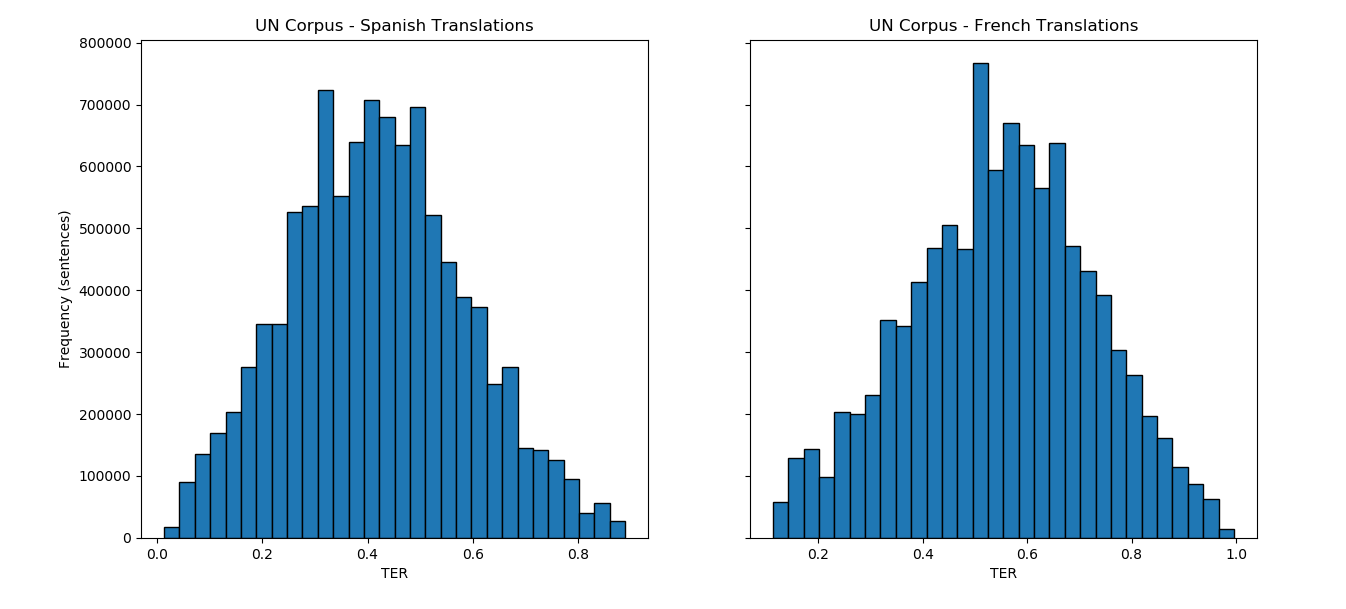
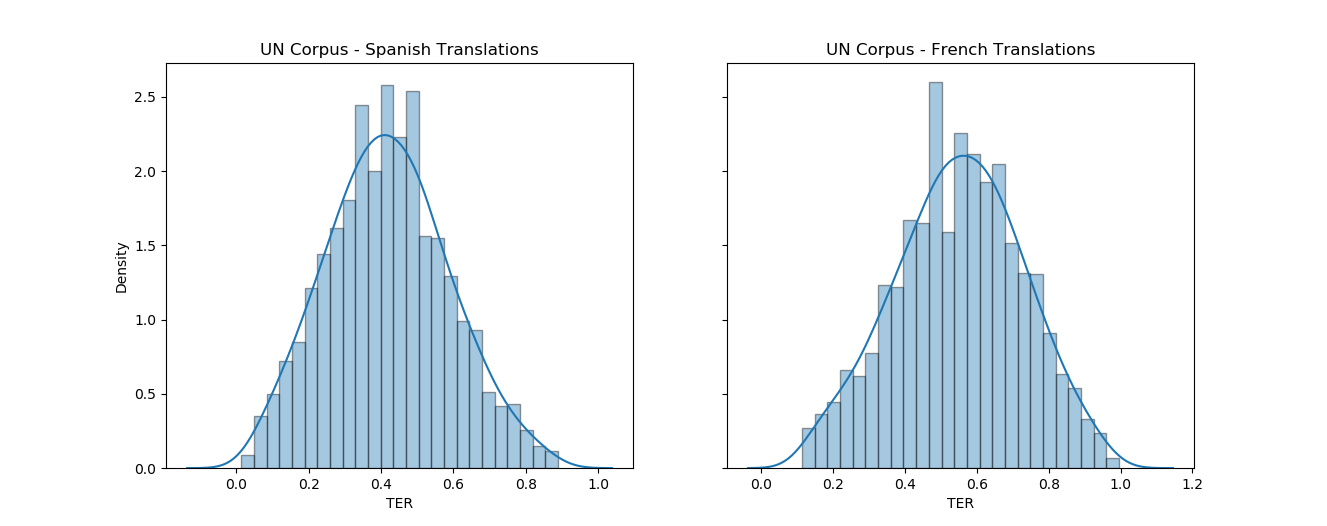
combining histogram and kde plot

diff --git a/scripts/histograms.py b/scripts/histograms.py
@@ -17,34 +17,50 @@ def histogram():
 
     fig, axs = plt.subplots(1, 2, sharey=True)
 
-    axs[0].hist(es_df.iloc[:,0], bins=30, edgecolor='black')
+    axs[0].hist(es_df.iloc[:,0], bins=25, edgecolor='black')
     axs[0].set_xlabel("TER")
     axs[0].set_ylabel("Frequency (sentences)")
     axs[0].set_title("UN Corpus - Spanish Translations")
 
-    axs[1].hist(fr_df.iloc[:,0], bins=30, edgecolor='black')
+    axs[1].hist(fr_df.iloc[:,0], bins=25, edgecolor='black')
     axs[1].set_xlabel("TER")
     #axs[1].ylabel("Frequency (sentences)")
     axs[1].set_title("UN Corpus - French Translations")
 
     plt.show()
-
-histogram()
 
 def KernelDensity():
 
     fig, axs = plt.subplots(1, 2, sharey=True)
 
-    sns.kdeplot(es_df.iloc[:,0], bw=0.1, ax=axs[0], legend=False)
+    sns.kdeplot(es_df.iloc[:,0], bw=0.05, ax=axs[0], legend=False)
     axs[0].set_xlabel("TER")
     axs[0].set_ylabel("Density")
     axs[0].set_title("UN Corpus - Spanish Translations")
 
-    sns.kdeplot(fr_df.iloc[:,0], bw=0.1, ax=axs[1], legend=False)
+    sns.kdeplot(fr_df.iloc[:,0], bw=0.05, ax=axs[1], legend=False)
     axs[1].set_xlabel("TER")
     #axs[1].ylabel("Frequency (sentences)")
     axs[1].set_title("UN Corpus - French Translations")
 
     plt.show()
 
-KernelDensity()
+def combined_plot():
+
+    fig, axs = plt.subplots(1, 2, sharey=True)
+
+    sns.distplot(es_df.iloc[:,0], hist=True, kde=True, bins=25, hist_kws={'edgecolor':'black'}, kde_kws={'bw':0.05}, ax=axs[0])#, label=False)
+    axs[0].set_xlabel("TER")
+    axs[0].set_ylabel("Density")
+    axs[0].set_title("UN Corpus - Spanish Translations")
+
+    sns.distplot(fr_df.iloc[:,0], hist=True, kde=True, bins=25, hist_kws={'edgecolor':'black'}, kde_kws={'bw':0.05}, ax=axs[1])#, label=False)
+    axs[1].set_xlabel("TER")
+    #axs[1].ylabel("Frequency (sentences)")
+    axs[1].set_title("UN Corpus - French Translations")
+
+    plt.show() 
+
+#histogram()
+#KernelDensity()
+combined_plot()
